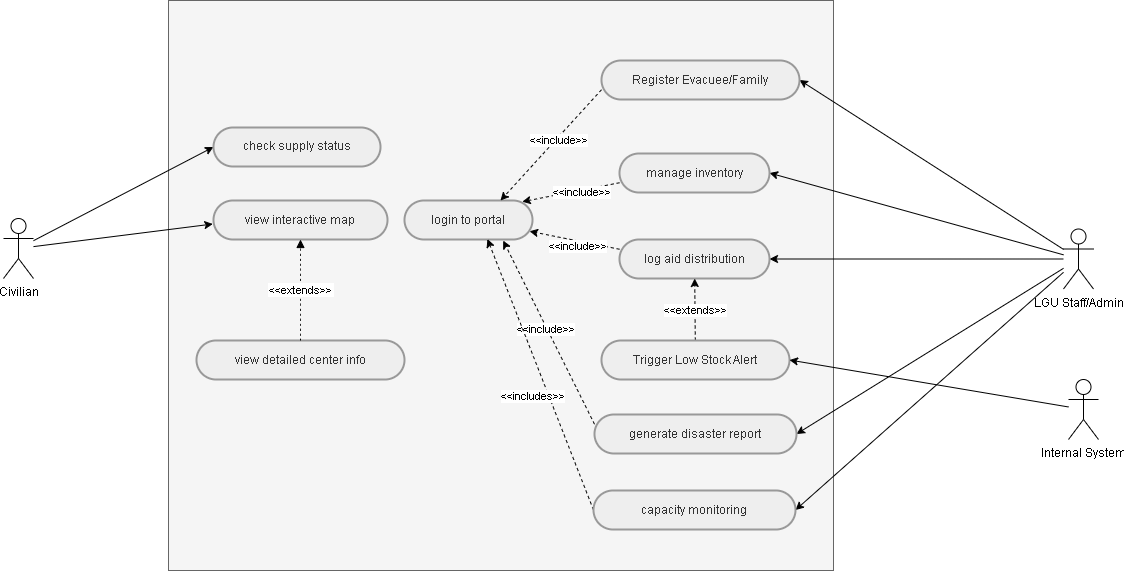
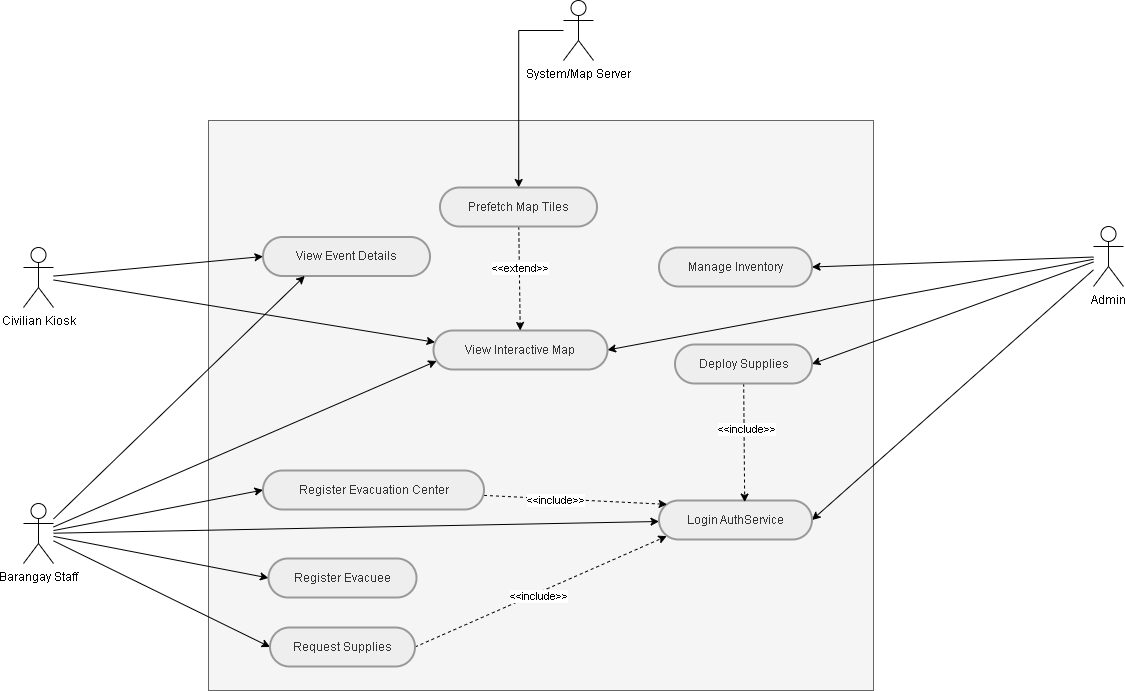
Clean the codes and proper naming conventions

diff --git a/src/main/java/com/example/util/Router.java b/src/main/java/com/example/util/Router.java
@@ -105,11 +105,11 @@ public final class Router {
      */
     private String resolveFxml(Route route) {
         return switch (route) {
-            case KIOSK              -> "/com/example/dashboard_kiosk/controller/barangay-user.fxml";
+            case KIOSK              -> "/com/example/dashboard_kiosk/controller/dashboard-user.fxml";
             case ADMIN_LOGIN        -> "/com/example/auth/admin-login.fxml";
             case BARANGAY_LOGIN     -> "/com/example/auth/barangay-login.fxml";
             case ADMIN_DASHBOARD    -> "/com/example/dashboard_admin/evacuation.fxml";
-            case BARANGAY_DASHBOARD -> "/com/example/dashboard_barangay/BrgyDashboard.fxml";
+            case BARANGAY_DASHBOARD -> "/com/example/dashboard_barangay/dashboard-barangay.fxml";
         };
     }
 }

diff --git a/src/main/java/com/example/dashboard_barangay/BrgyDashboardApplication.java b/src/main/java/com/example/dashboard_barangay/BrgyDashboardApplication.java
@@ -15,7 +15,7 @@ public class BrgyDashboardApplication extends Application {
 
     @Override
     public void start(Stage stage) throws IOException {
-        FXMLLoader fxmlLoader = new FXMLLoader(BrgyDashboardApplication.class.getResource("BrgyDashboard.fxml"));
+        FXMLLoader fxmlLoader = new FXMLLoader(BrgyDashboardApplication.class.getResource("dashboard-barangay.fxml"));
         Parent root = fxmlLoader.load();
 
         //stage.initStyle(StageStyle.UNDECORATED);

diff --git a/src/main/java/com/example/dashboard_kiosk/KioskConstants.java b/src/main/java/com/example/dashboard_kiosk/KioskConstants.java
@@ -30,7 +30,7 @@ public final class KioskConstants {
     // 1. FXML / RESOURCE PATHS
     // ─────────────────────────────────────────────────────────────────────
 
-    public static final String FXML_ROOT          = "barangay-user.fxml";
+    public static final String FXML_ROOT          = "dashboard-user.fxml";
     public static final String FXML_DETAIL_MODAL  = "detail-modal.fxml";
     public static final String FXML_EVENT_CELL    = "event-cell.fxml";
     public static final String STYLESHEET         = "style.css";